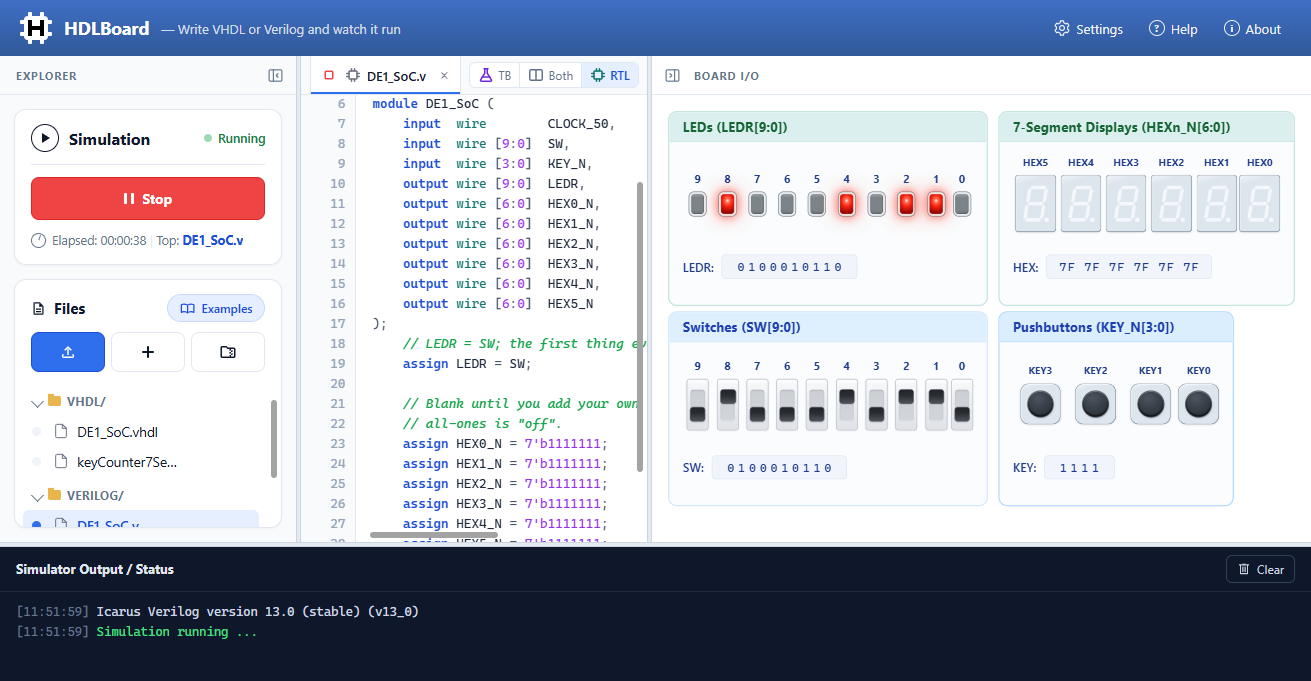
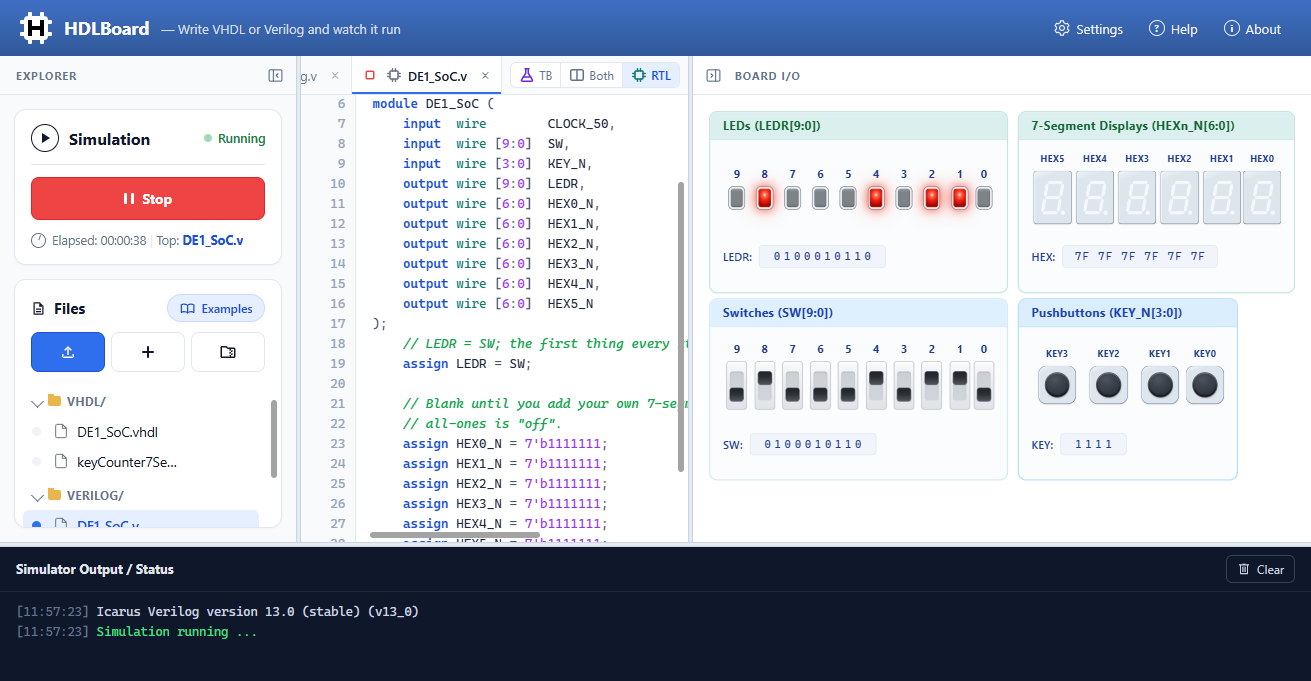
Landing page: workbench screenshot with a narrower board pane

diff --git a/index.html b/index.html
@@ -84,7 +84,7 @@
       </div>
     </div>
 
-    <img class="hero-shot" src="assets/workbench.png?v=5" width="1311" height="681" loading="eager"
+    <img class="hero-shot" src="assets/workbench.png?v=6" width="1311" height="681" loading="eager"
          alt="HDLBoard running the Verilog design DE1_SoC.v under Icarus Verilog: the Simulation card and Files panel on the left, the editor in the middle, and the virtual board on the right with four switches up and their LEDs lit, plus the 7-segment displays and pushbuttons" />
   </div>
 </section>
